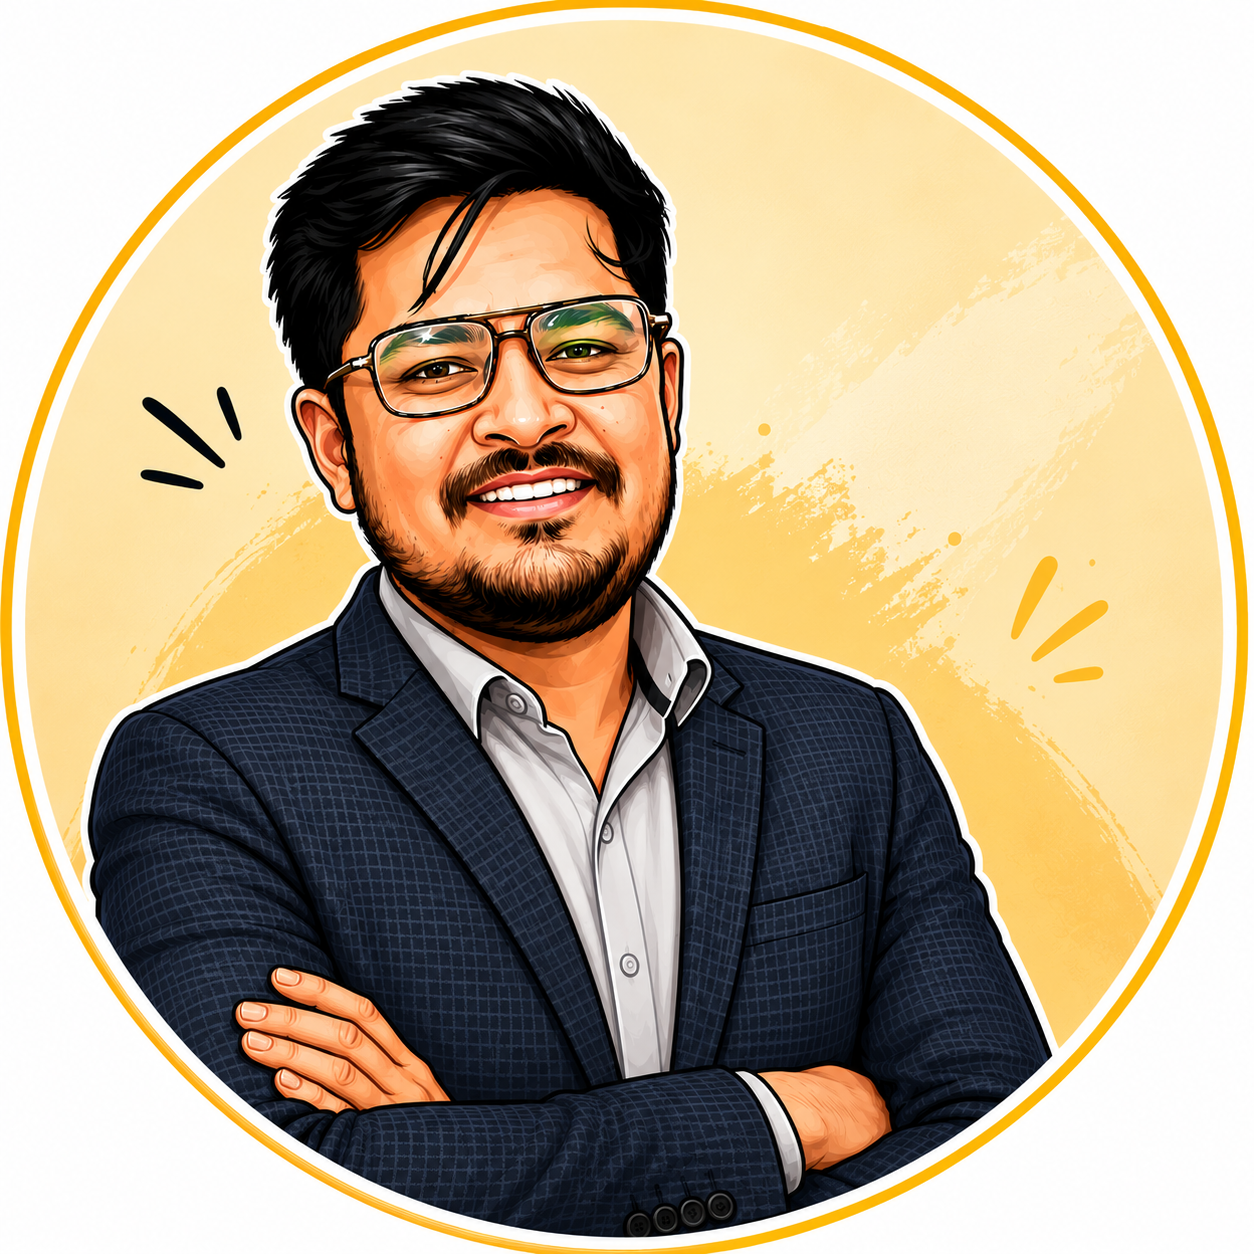
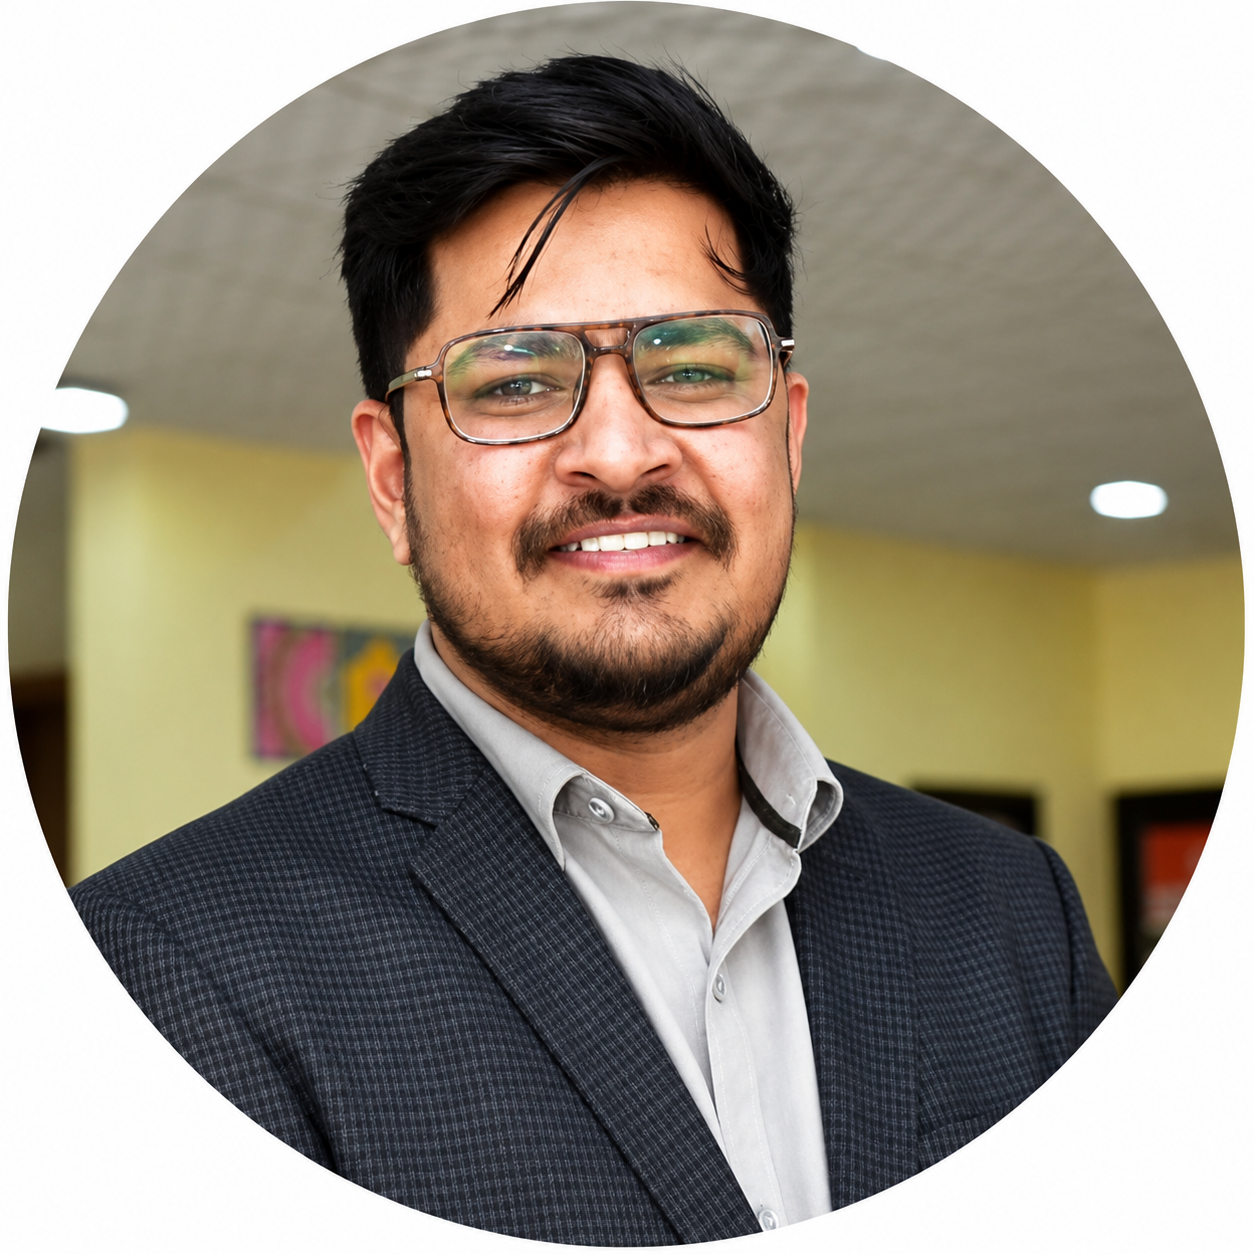
new changes

diff --git a/ask.html b/ask.html
@@ -198,6 +198,20 @@ padding:20px;
 
 <input type="hidden" name="_next" value="https://radhakrishna1594.github.io/Saraswat_Academy/">
 
+<input
+type="hidden"
+name="_autoresponse"
+value="Thank you for contacting Saraswat Academy.
+
+We have received your question successfully.
+
+Our subject experts will review your doubt and reply as soon as possible.
+
+Regards,
+Saraswat Academy
+https://www.saraswatacademy.in">
+
+
 <div class="field">
 
 <label>Your Name *</label>
@@ -248,6 +262,26 @@ padding:20px;
 
 </div>
 
+
+<div class="field">
+
+<label>Board</label>
+
+<select name="Board">
+
+<option>CBSE</option>
+
+<option>RBSE</option>
+
+<option>ICSE</option>
+
+<option>Other</option>
+
+</select>
+
+</div>
+
+
 <div class="field">
 
 <label>Subject *</label>
@@ -291,6 +325,21 @@ padding:20px;
 </div>
 
 
+<div class="field">
+
+<label>Can we publish your question on Saraswat Academy?</label>
+
+<select name="Permission">
+
+<option>Yes</option>
+
+<option>No</option>
+
+</select>
+
+</div>
+
+
 <button type="submit">
 
 Submit Question
@@ -312,6 +361,8 @@ class="ask-btn">
 Submit Your Doubt
 
 </a>
+
+
 
 </div>
 

diff --git a/about_us.html b/about_us.html
@@ -356,12 +356,12 @@ Our goal is to simplify learning and make studies easier for everyone.
 
 <div class="box">
 
-<img src="./about-me.png" width="150" height="150" loading="lazy">
-<h3>Krishna kumar Saraswat</h3>
+<img src="./about-me.png" width="300" height="300" loading="lazy">
+<h3><b>Krishna kumar Saraswat</b></h3>
 
 <p>
 
- M.Sc. Mathematics, MCA and B.Ed qualified with 10+ years of teaching experience. <br> Passionate about making Mathematics easy, interesting and accessible for every student through Saraswat Academy.
+ M.Sc. Mathematics, MCA and B.Ed with 10+ years of teaching experience. <br> Passionate about making Mathematics easy, interesting and accessible for every student through Saraswat Academy.
 
 
 </p>